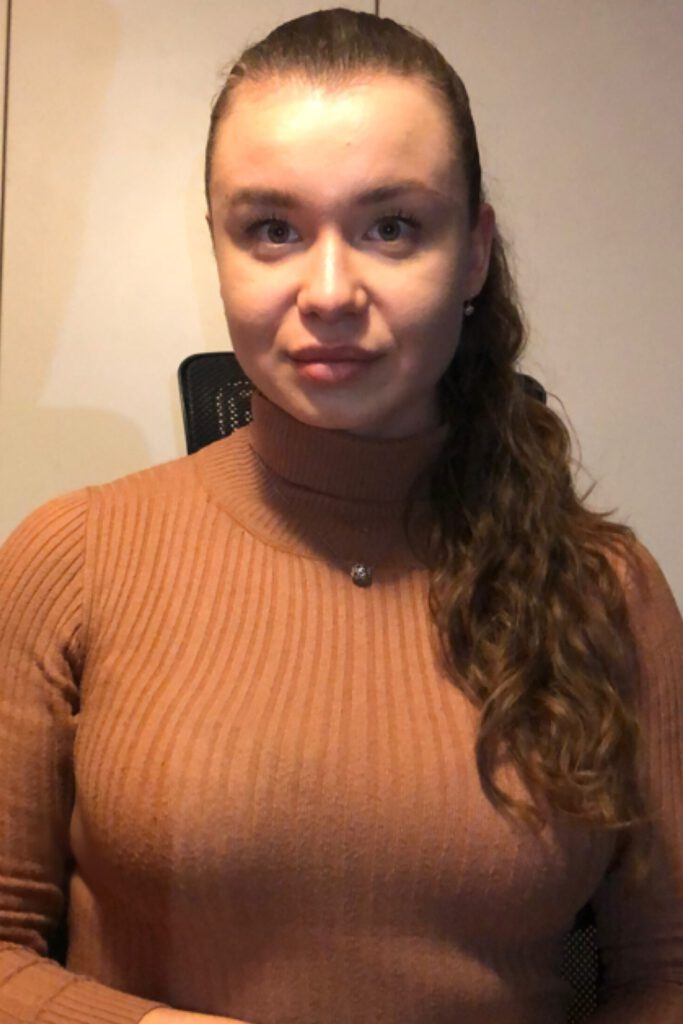
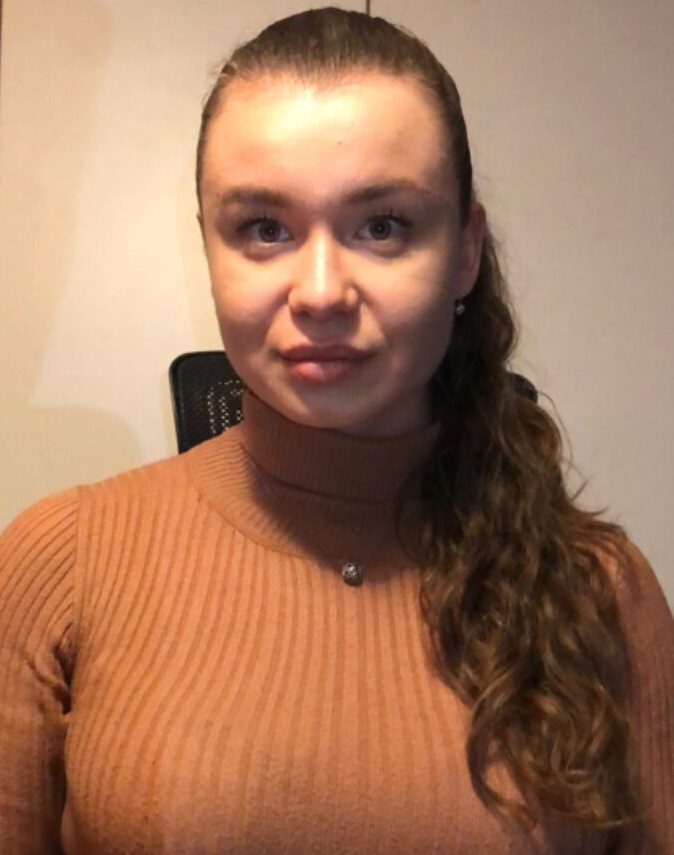
students-add

diff --git a/members.html b/members.html
@@ -129,11 +129,13 @@ title: Members
 
     <div class="students__msc">
         <div class="students__card">
+            <img src="/images/lahutova.rozalie.jpg" alt="Rozálie Lahutová">
             <h4 class="students__name">Rozálie Lahutová, BSc.</h4>
             <p class="students__text">MSc. student</p>
         </div>
 
         <div class="students__card">
+            <img src="/images/smolova.eliska.jpg" alt="Eliška Smolová">
             <h4 class="students__name">Eliška Smolová, BSc.</h4>
             <p class="students__text">MSc. student</p>
         </div>
@@ -141,16 +143,19 @@ title: Members
 
     <div class="students__bsc">
         <div class="students__card">
+            <img src="/images/lavickova.andrea.jpeg" alt="Andrea Lavičková">
             <h4 class="students__name">Andrea Lavičková</h4>
             <p class="students__text">BSc. student</p>
         </div>
 
         <div class="students__card">
+            <img src="/images/polomska.ema.jpg" alt="Ema Polomská">
             <h4 class="students__name">Ema Polomská</h4>
             <p class="students__text">BSc. student</p>
         </div>
 
         <div class="students__card">
+            <img src="/images/zachariasova.valerie.jpeg" alt="Valerie Zachariášová">
             <h4 class="students__name">Valerie Zachariášová</h4>
             <p class="students__text">BSc. student</p>
         </div>

diff --git a/scss/style.scss b/scss/style.scss
@@ -466,6 +466,16 @@ body {
         margin: 0;
     }
 
+    &__card img {
+        display: block;
+        width: 100px;
+        margin: 0 auto;
+        aspect-ratio: 1/1;
+        object-fit: cover;
+        border-radius: 50%;
+        border: 3px solid $background;
+    }
+
     &__name {
         margin: 0;
     }

diff --git a/css/style.css b/css/style.css
@@ -416,6 +416,16 @@ body {
   text-align: center;
   margin: 0;
 }
+.students__card img {
+  display: block;
+  width: 100px;
+  margin: 0 auto;
+  aspect-ratio: 1/1;
+  -o-object-fit: cover;
+     object-fit: cover;
+  border-radius: 50%;
+  border: 3px solid #F1F8F9;
+}
 .students__name {
   margin: 0;
 }
